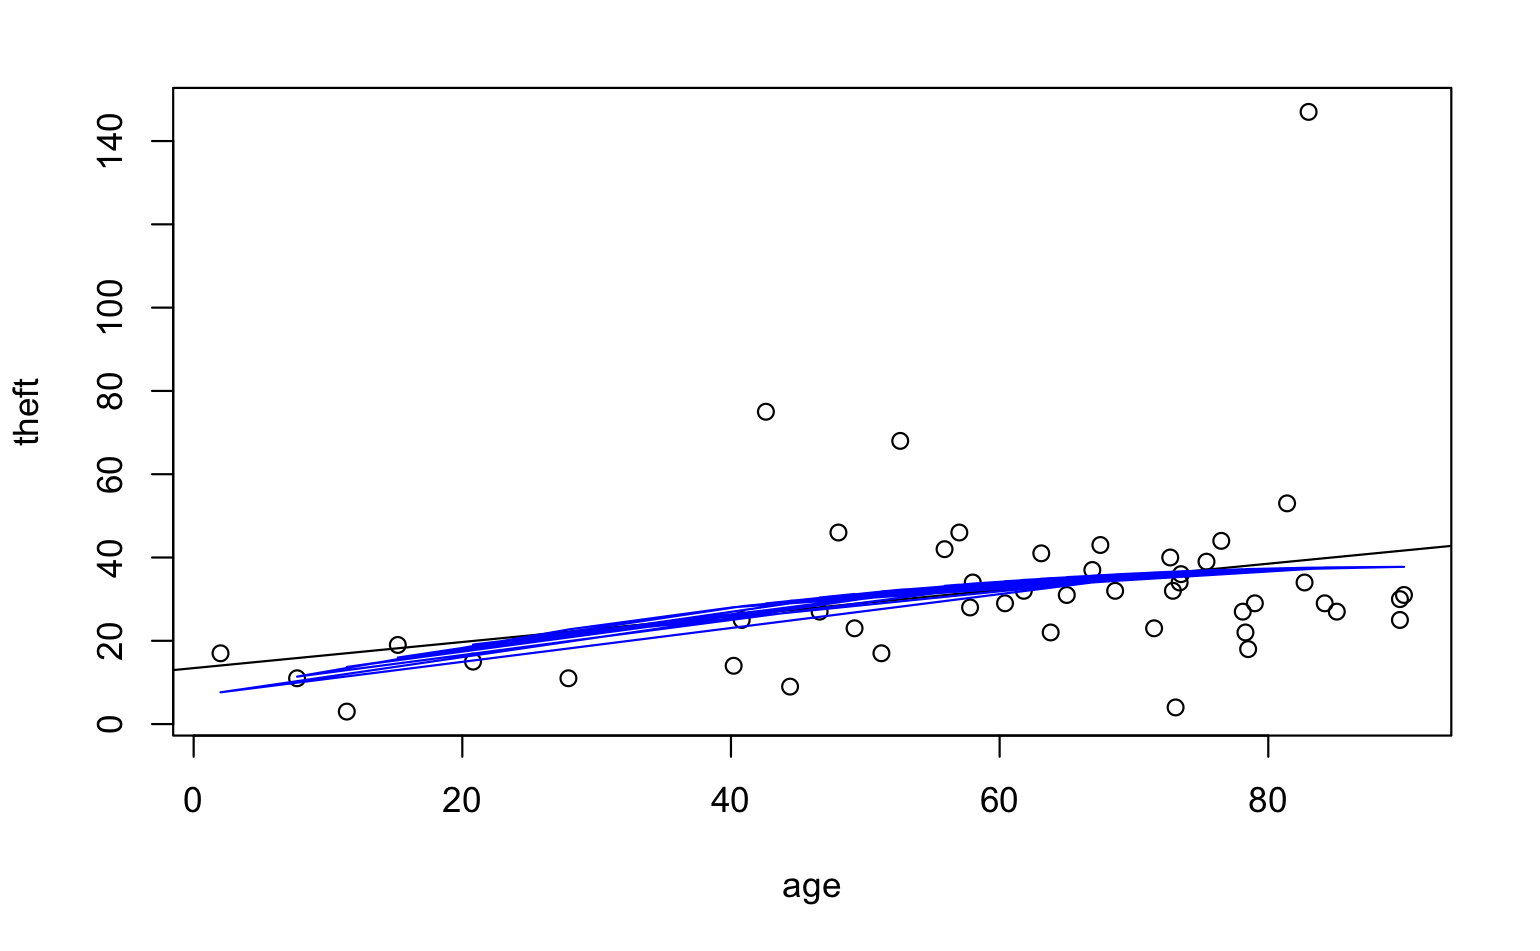
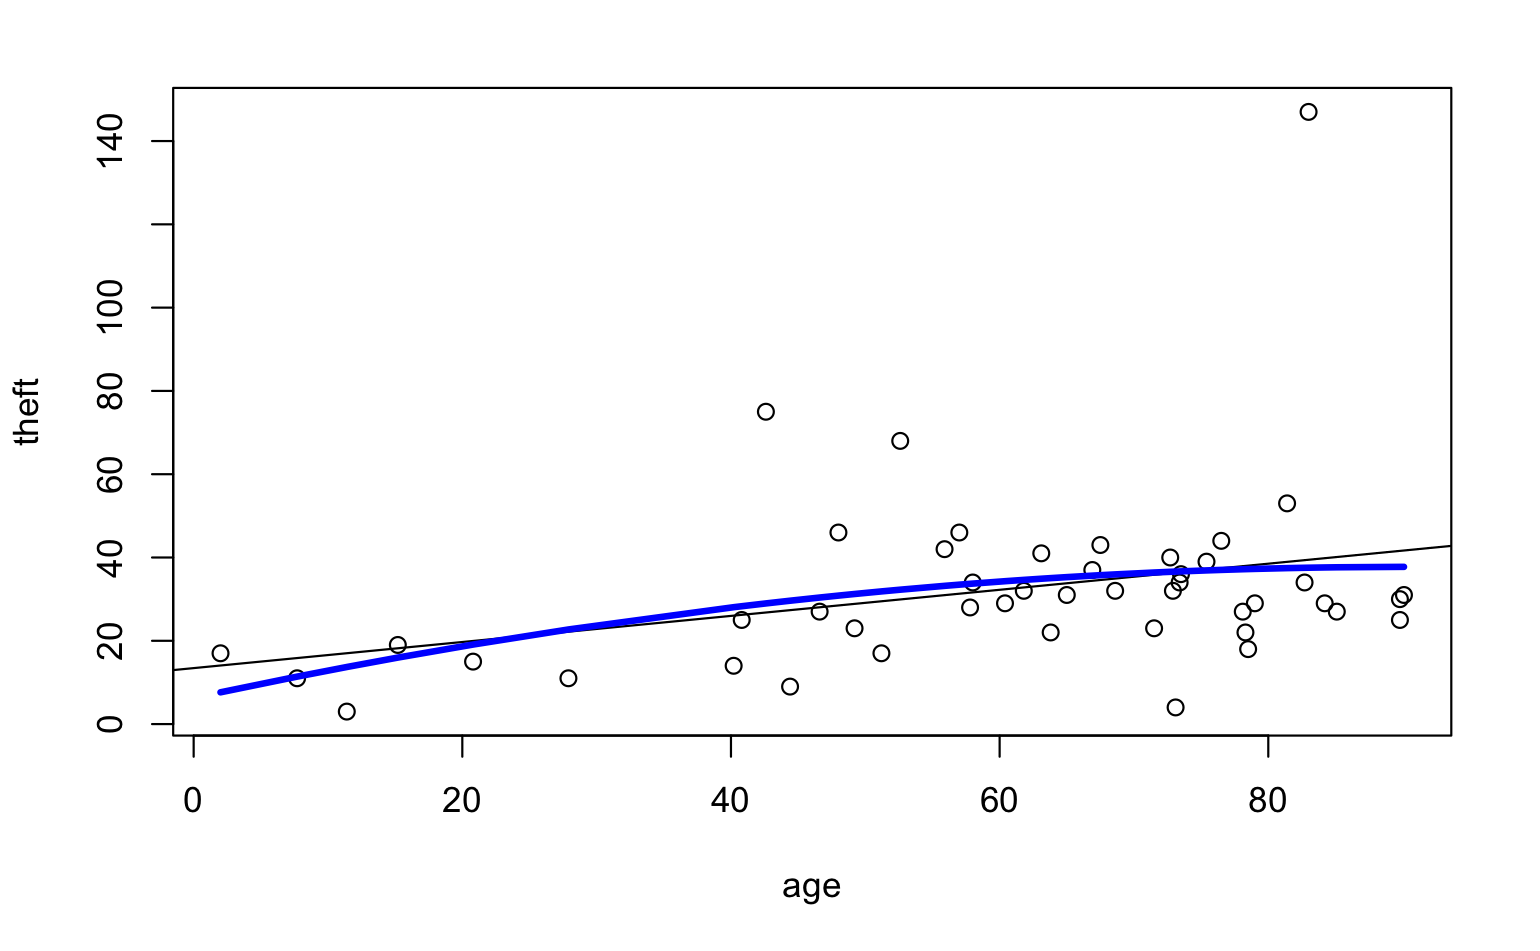
HW#2 Fourth Commit

Changed region(s): [[0.1558, 0.5794, 0.9039, 0.7319]]

diff --git a/assignments/ass2/2.tex b/assignments/ass2/2.tex
@@ -5,12 +5,61 @@
 \end{question}
 
 \begin{answer}
-    Claim: The shortest distance from an arbitrary point to an arbitrary line through the origin in ${\mathbb{R}}^2$ is the length of a vector orthogonal to the line and passing through the point.
     \begin{proof}
-    Let $(x_0,y_0)$ be an arbitrary point on ${\mathbb{R}}^2$. We can find the expression of the line in ${\mathbb{R}}^2$, which is $y = \tfrac{b}{a}x \Rightarrow bx - ay = 0$. Then the distance from this point to this line can be calculated as the following:
+    Let $(x_0,y_0)$ be an arbitrary point on ${\mathbb{R}}^2$. We can find the vector from an arbitrary point $(ka,kb)$ on the line to $(x_0,y_0)$, which is $\left[\begin{smallmatrix} x_0 - ka \\ y_0 - kb \end{smallmatrix} \right]$. The squared length of the vector can be calculated by:
     \begin{equation}
-        \dfrac{\lvert bx_0 - ay_0 \rvert}{\sqrt{b^2 + {(-a)}^2}} = \dfrac{\lvert bx_0 - ay_0 \rvert}{\sqrt{b^2 + a^2}}
+        \left[\begin{matrix}
+        x_0 - ka\\
+        y_0 - kb
+        \end{matrix}\right]^{T}
+        \left[\begin{matrix}
+        x_0 - ka\\
+        y_0 - kb
+        \end{matrix}\right] = (x_0 - ka)^2 + (y_0 - kb)^2
     \end{equation}
-    
+    Since we want to find the $k$ value that minimizes the distance. To find this, we can take the derivative of the squared distance.
+    \begin{align}
+        \dfrac{d}{dk}{\left((x_0 - ka)^2 + (y_0 - kb)^2\right)} &= \dfrac{d}{dk}{\left({x_0}^2 - 2ax_0k + k^2a^2 + {y_0}^2 - 2by_0k + k^2b^2\right)}\\
+        &= 2ax_0 + 2a^2k - 2by_0 + 2b^2k
+    \end{align}
+    Setting this derivative to be equal to zero, we can find the value of $k$ that minimize the distance.
+    \begin{align}
+        &-2ax_0 + 2a^2k - 2by_0 + 2b^2k = 0\\
+        & \Rightarrow (2a^2 + 2b^2)k = 2ax_0 + 2by_0\\
+        & \Rightarrow (a^2 + b^2)k = ax_0 + by_0\\
+        & \Rightarrow k = \dfrac{ax_0 + by_0}{a^2 + b^2}
+    \end{align}
+    Hence, when the distance is minimized, the point on the line is $(\tfrac{a(ax_0 + by_0)}{a^2 + b^2}, \tfrac{b(ax_0 + by_0)}{a^2 + b^2})$. The the vector from this point to $(x_0,y_0)$ is $\left[\begin{smallmatrix} x_0 - \tfrac{a(ax_0 + by_0)}{a^2 + b^2} \\ y_0 - \tfrac{b(ax_0 + by_0)}{a^2 + b^2} \end{smallmatrix} \right]$. To test whether this vector is orthogonal to every vector in the form $\left[\begin{smallmatrix} ta \\ tb \end{smallmatrix} \right]$ in the line, where $t \in \mathbb{Z}$, we can take the dot product of them.
+    \begin{equation}
+        \begin{split}
+            \left[
+        \begin{matrix}
+            x_0 - \dfrac{a(ax_0 + by_0)}{a^2 + b^2}\\
+            y_0 - \dfrac{b(ax_0 + by_0)}{a^2 + b^2}
+        \end{matrix}
+        \right] \cdot
+        \left[
+        \begin{matrix}
+            ta\\
+            tb
+        \end{matrix}
+        \right]
+        & = 
+        \left[
+        \begin{matrix}
+            \dfrac{b^2x_0 - aby_0}{a^2 + b^2}\\
+            \dfrac{a^2y_0 - abx_0}{a^2 + b^2}
+        \end{matrix}
+        \right] \cdot
+        \left[
+        \begin{matrix}
+            ta\\
+            tb
+        \end{matrix}
+        \right]\\
+        & = \dfrac{tab^2x_0 - ta^2by_0 + ta^2by_0 - tab^2x_0}{a^2 + b^2} = 0
+        \end{split}
+    \end{equation}
+    Since the dot product equals to zero, we know that this vector is orthogonal to any vector in the line.
     \end{proof}
 \end{answer}

diff --git a/assignments/ass2/3.tex b/assignments/ass2/3.tex
@@ -18,17 +18,23 @@
     I used the codes below fitting the model $2$ of the \textit{theft} against \textit{age} and \textit{age${}^2$}
     \begin{verbatim}
         # Fit the model of theft against age and age^2
-        lm2 <- lm(chredlin$theft~chredlin$age + I(chredlin$age^2))
+        # First find the order of the variable age
+        ord=order(chredlin$age)
+        # Using this order to order both the theft and the age
+        tord=chredlin$theft[ord]
+        aord=chredlin$age[ord]
+        lm2=lm(tord~aord+I(aord^2))
         # Show the result
         lm2
     \end{verbatim}
     I get the model $2$ which is $\widehat{theft} = 6.247810 + 0.698292 \cdot age - 0.003869 \cdot {age}^2$.
     \begin{verbatim}
-        plot(chredlin$theft~chredlin$age, xlab = "age", ylab = "theft")
+        # Make the scatter plot
+        plot(tord~aord, xlab = "age", ylab = "theft")
         # Plot the model 1
         abline(lm1)
         # Plot the model 2
-        points(chredlin$age, lm2$fitted, type = "l", col = "blue")
+        points(aord,lm2$fitted,type="l",lwd=3,col="blue")
     \end{verbatim}
     By the codes above, I made a scatter plot of \textit{theft} against \textit{age} with both models fitted, and I used color blue to indicate the model $2$, while the model $1$ is shown in black. I have the following figure.
     \begin{figure}[H]
@@ -36,5 +42,5 @@
         \includegraphics[width=0.8\textwidth]{Figure 3.png}
         \caption{\label{fig:fig3}plot of \textit{theft} against \textit{age} with fitted models}
     \end{figure}
-    From the Figure \ref{fig:fig3}, we can tell that the model $1$ seems to be a better fit, since it tells the trend of the data, while the second model is too complicated and is overfitted.
+    From the Figure \ref{fig:fig3}, we can tell that the model $2$ seems to be a better fit, since it shows the trend of the data that have a little bit high \textit{theft} value.
 \end{answer}
